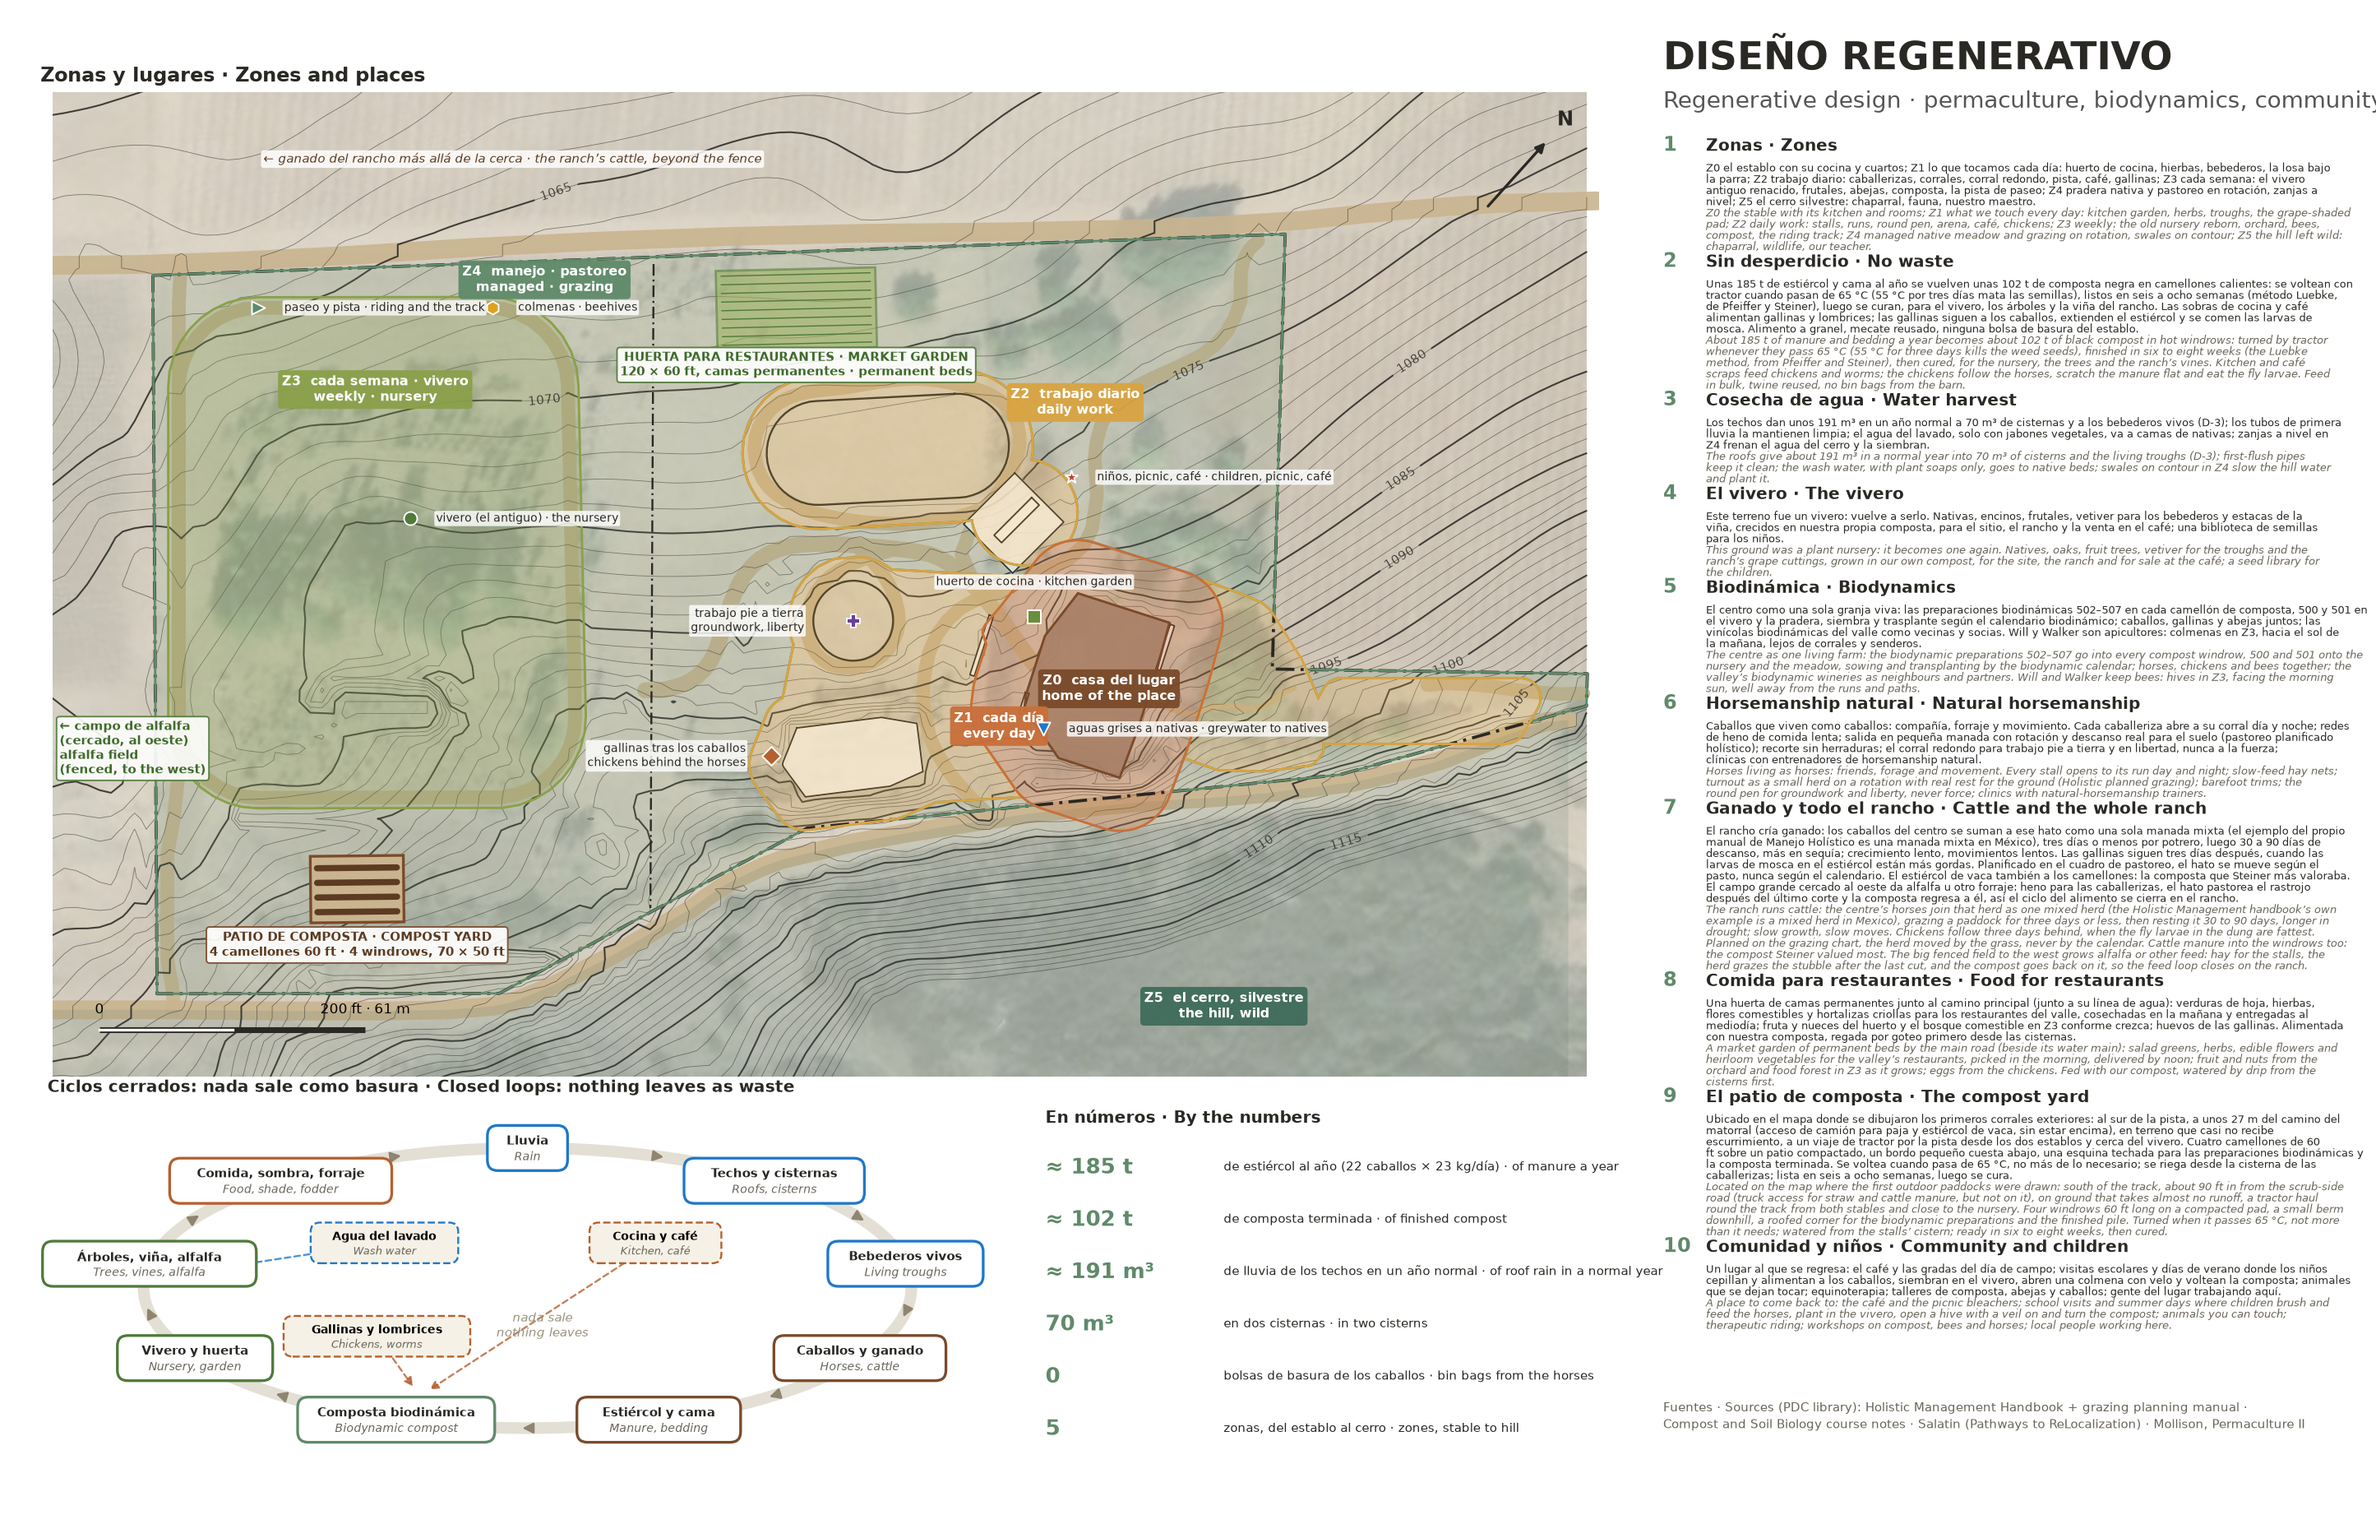
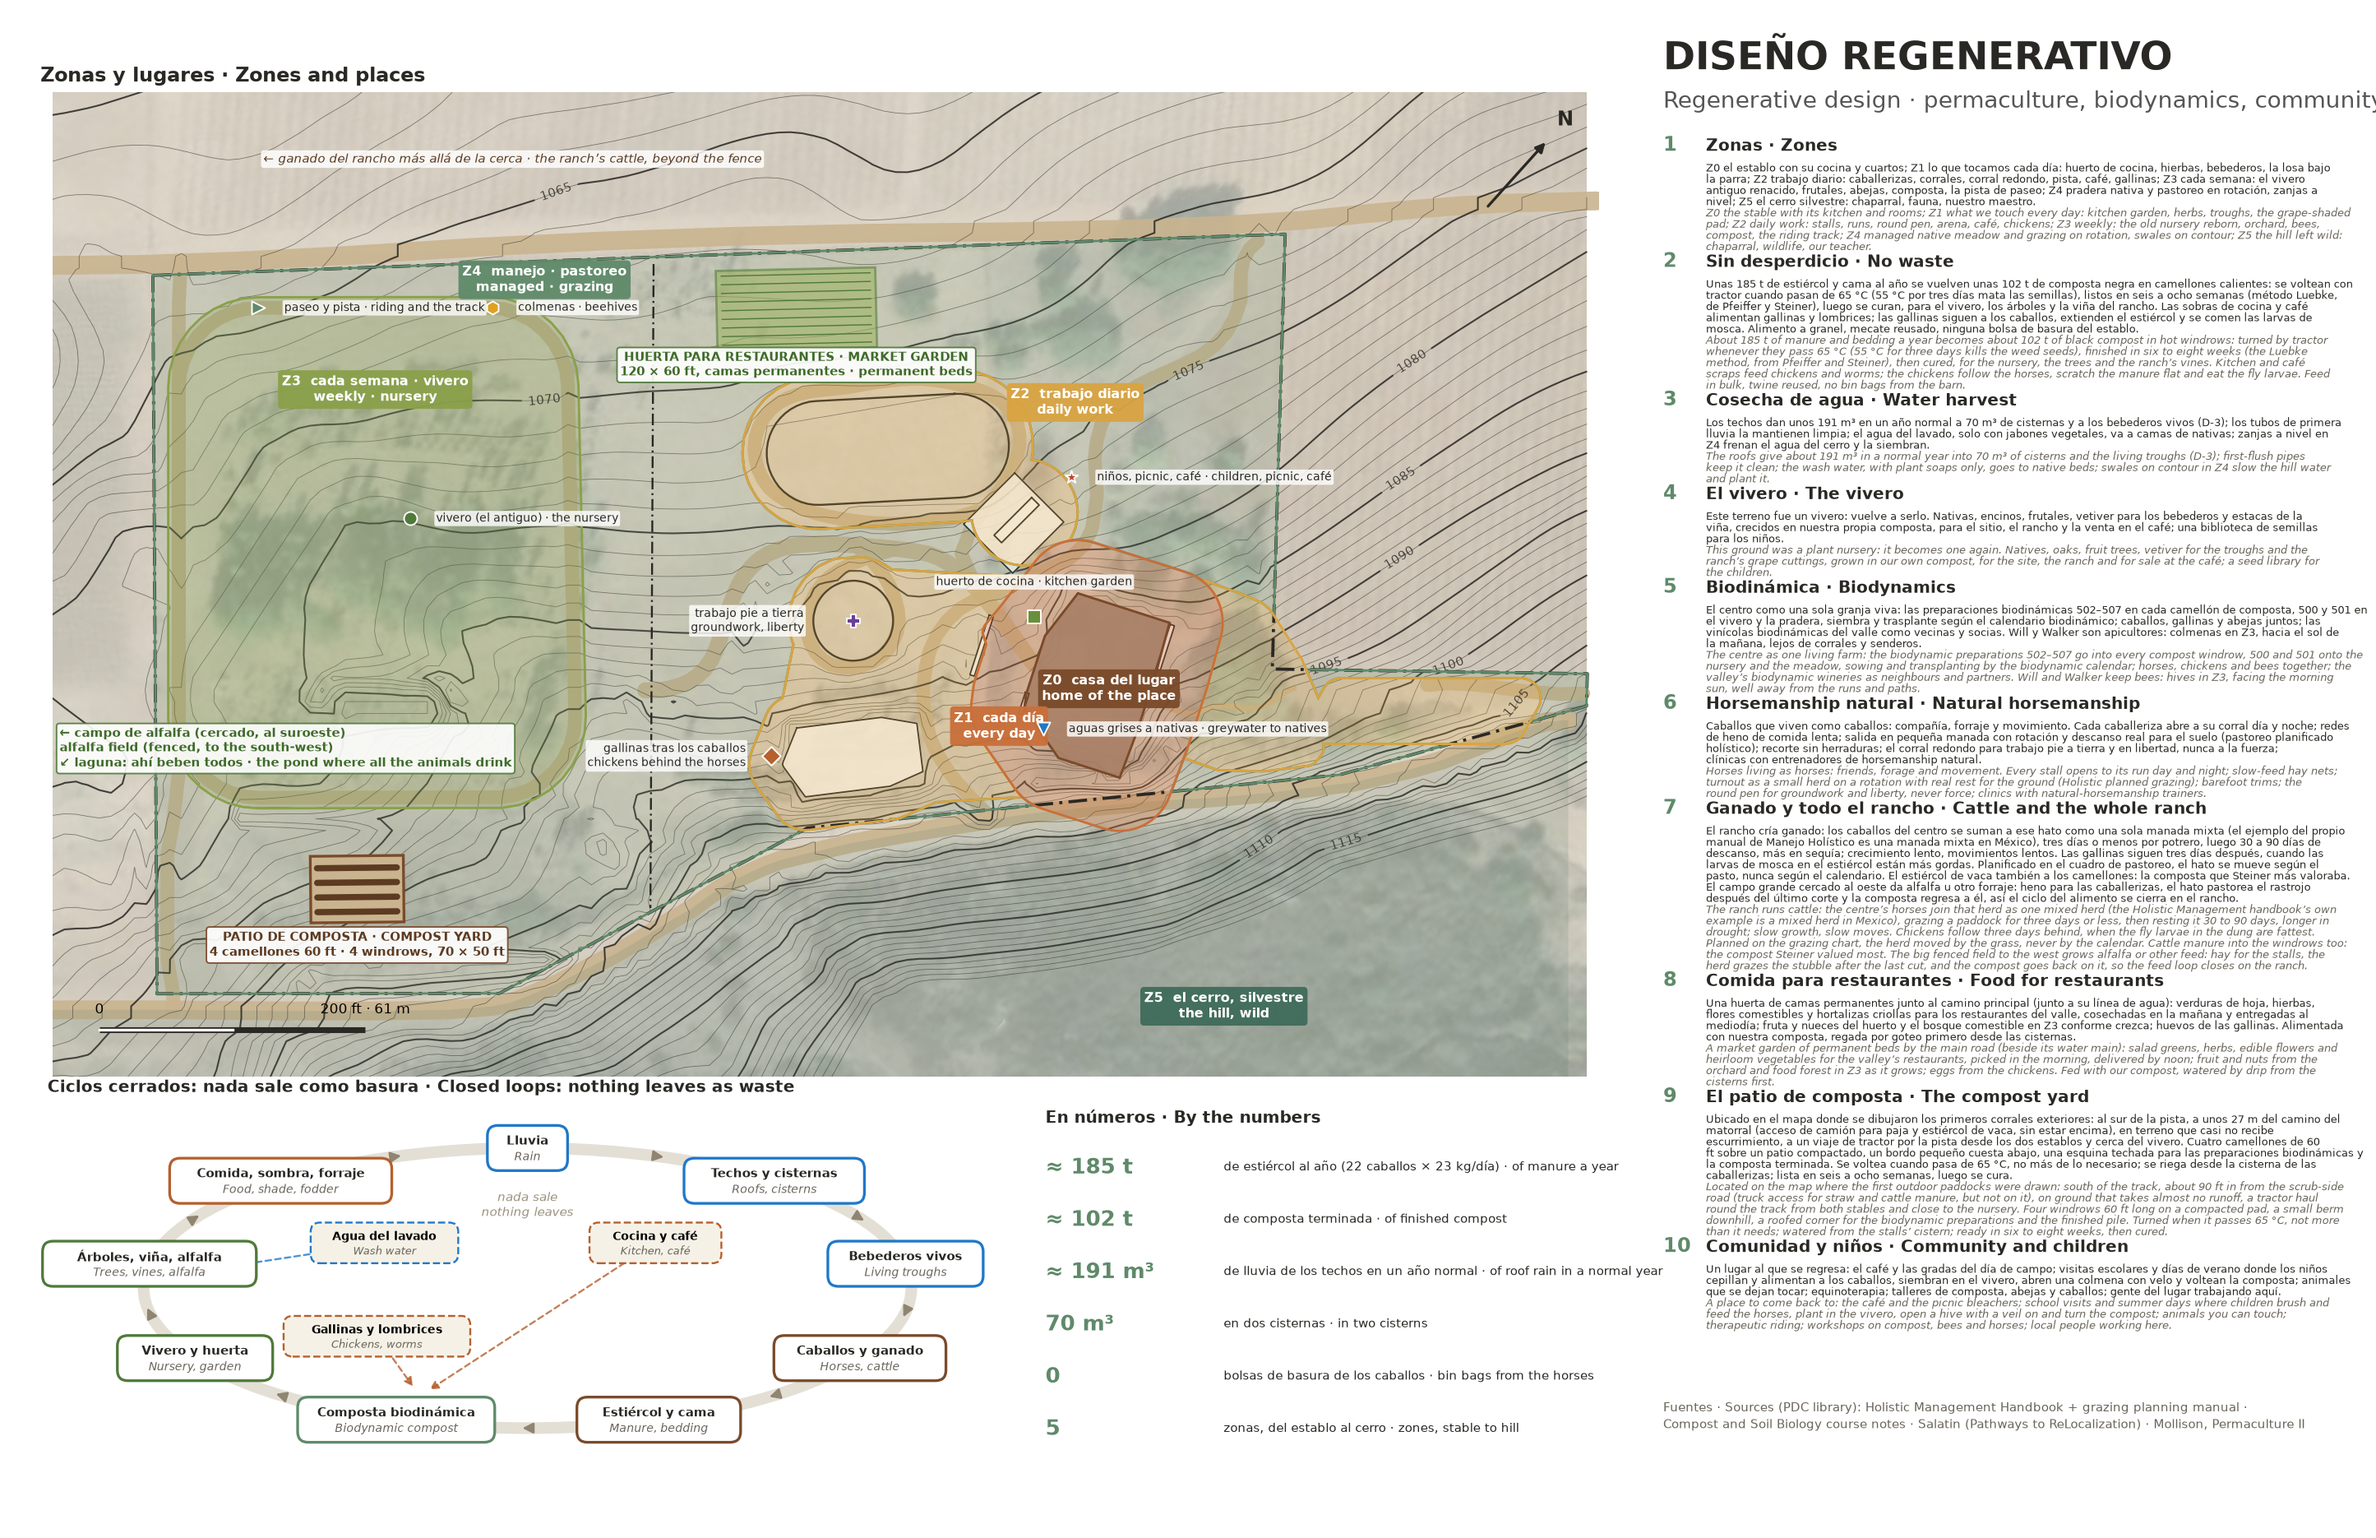
A-2: alfalfa field is to the south-west; the pond where the animals drink

Changed region(s): [[0.0, 0.4652, 0.218, 0.5273], [0.218, 0.8374, 0.2491, 0.8684]]

diff --git a/projects/regen.py b/projects/regen.py
@@ -71,7 +71,7 @@ ax.add_patch(MPoly(np.array(mg),closed=True,fc='#9bb35a',ec='#4f7a3a',lw=1.2,alp
 for k in range(9):
     o=MG+uy*F(-26+k*6.5); ax.plot(*np.array([o-ux*F(56),o+ux*F(56)]).T,color='#4f7a3a',lw=.6,zorder=9)
 ax.text(MG[0],MG[1]+F(42),'HUERTA PARA RESTAURANTES · MARKET GARDEN\n120 × 60 ft, camas permanentes · permanent beds',fontsize=6.2,weight='bold',color='#3f6b2a',ha='center',va='center',zorder=15,bbox=dict(boxstyle='round,pad=.25',fc='white',ec='#4f7a3a',lw=.8,alpha=.92))
-ax.text(18.6,64,'← campo de alfalfa\n(cercado, al oeste)\nalfalfa field\n(fenced, to the west)',fontsize=6.2,color='#3f6b2a',weight='bold',ha='left',va='center',zorder=15,bbox=dict(boxstyle='round,pad=.25',fc='white',ec='#4f7a3a',lw=.8,alpha=.9))   # 4 Oct (Will): the big fenced field to the west grows alfalfa / feed
+ax.text(18.6,64,'← campo de alfalfa (cercado, al suroeste)\nalfalfa field (fenced, to the south-west)\n↙ laguna: ahí beben todos · the pond where all the animals drink',fontsize=6.2,color='#3f6b2a',weight='bold',ha='left',va='center',zorder=15,bbox=dict(boxstyle='round,pad=.25',fc='white',ec='#4f7a3a',lw=.8,alpha=.9))   # 4 Oct (Will): the big fenced field to the west grows alfalfa / feed
 ax.text(36,14,'← ganado del rancho más allá de la cerca · the ranch’s cattle, beyond the fence',fontsize=6.2,color='#5c3b22',style='italic',zorder=15,bbox=dict(boxstyle='round,pad=.2',fc='white',ec='none',alpha=.85))
 mark(c3+np.array([3,-3]),'o','#4f7a3a','vivero (el antiguo) · the nursery')
 mark(c3+np.array([10,-21]),'h','#e0a020','colmenas · beehives',dx=2.2)
